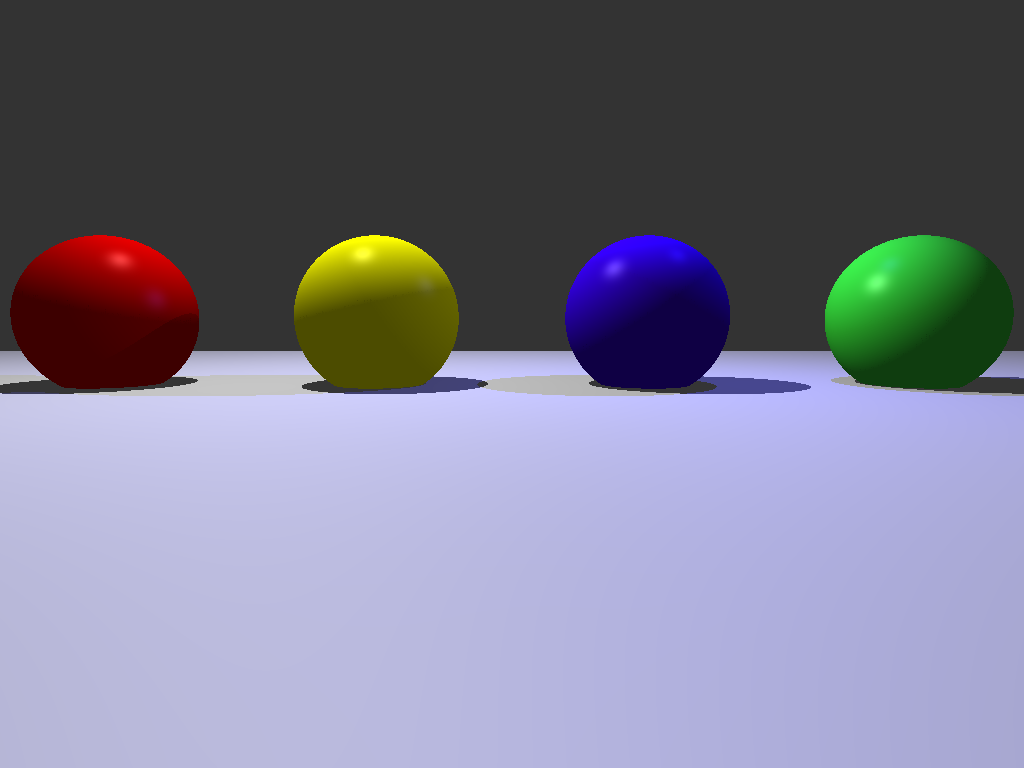
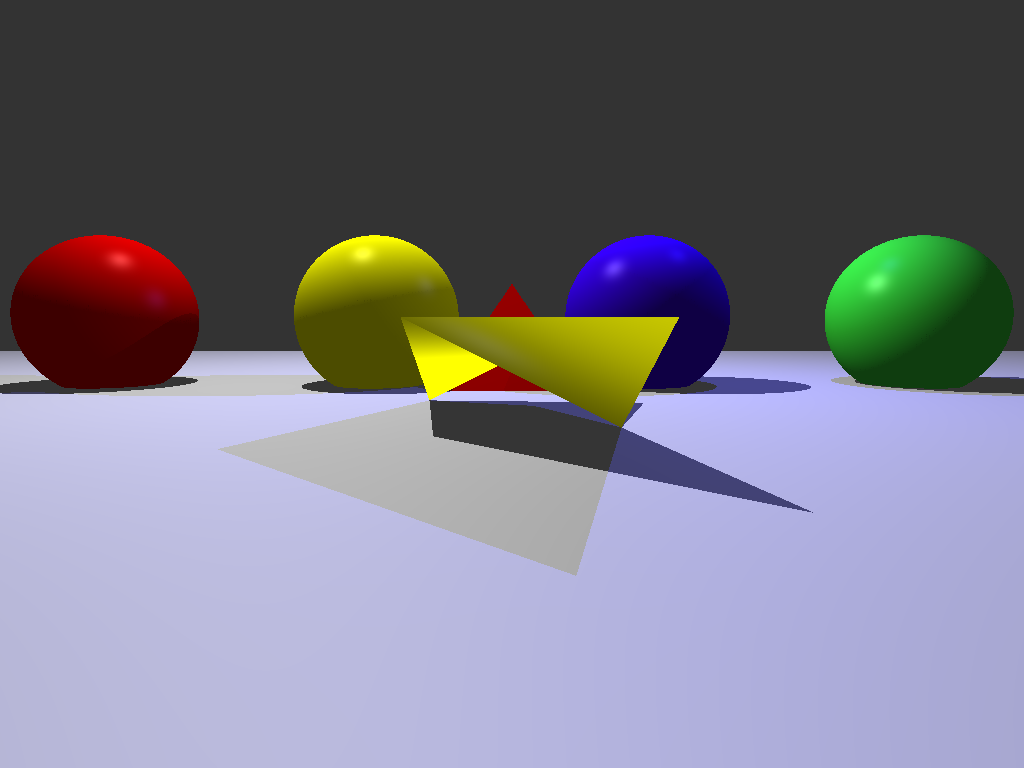
polymesh implementation
If has normals array -> smooth shading, otherwise flat shading. Moved triangle hit into polymesh.

Changed region(s): [[0.2188, 0.375, 0.7812, 0.75]]

diff --git a/src/shape/polymesh.rs b/src/shape/polymesh.rs
@@ -1,0 +1,105 @@
+use glam::{Mat3, Mat4, Vec3};
+use crate::{material::Material, ray::Ray, shape::{Hit, Shape}};
+
+pub struct PolyMesh {
+    vertices: Vec<Vec3>,            // the vertex table: one point per vertex
+    triangles: Vec<[u32; 3]>,       // the index table: three vertex indices per face
+    normals: Vec<Vec3>,             // optional: one per vertex (same length as vertices)
+    transform: Mat4,
+    material: Material
+}
+
+impl PolyMesh {
+     pub fn new(vertices: Vec<Vec3>, triangles: Vec<[u32; 3]>, normals: Vec<Vec3>, material: Material) -> PolyMesh {
+        PolyMesh {vertices, triangles, normals, transform: Mat4::IDENTITY, material}
+     }
+
+     // gets index of triangle (t) and returns 3 vertices of triangle
+     fn corners(&self, t: usize) -> [Vec3; 3] {
+        let [i, j, k] = self.triangles[t];
+        [self.vertices[i as usize], self.vertices[j as usize], self.vertices[k as usize]] 
+     }
+
+     fn hit_triangle(a: Vec3, b: Vec3, c: Vec3, ray: &Ray, t_min: f32, t_max: f32) -> Option<(f32, f32, f32, Vec3)> {
+        let d = ray.get_direction();
+        let e = ray.get_origin(); 
+
+        // hit point for triangle: p = (1 - beta - gamma)a + beta b + gamma c
+        // rearrange with ray equation (p = e + t*d): (a - b) beta + (a - c) gamma + d t = a - e
+        // c0 * beta + c1 * gamma + d * t = rhs
+        let (c0, c1) = (a - b, a - c); // the two columns
+        let rhs = a - e; // right-hand side
+
+        // determinant of | a-b   a-c   d |
+        let det = Mat3::from_cols(c0, c1, d).determinant();
+        if det.abs() < 1e-8 {return None;}  // ray parallel to the plane
+
+        let t = Mat3::from_cols(c0, c1, rhs).determinant() / det;
+        if t<t_min || t>t_max {
+            return None;    // too close or too far
+        }
+
+        let gamma = Mat3::from_cols(c0, rhs, d).determinant() / det;
+        if gamma<0.0 || gamma>1.0 {
+            return None;    // point not inside triangle (gamma not between 0, 1)
+        }
+
+        let beta = Mat3::from_cols(rhs, c1, d).determinant() / det;
+        if beta < 0.0 || beta > 1.0 - gamma {
+            return None;    // alpha = 1 - beta - gamma
+                            // For point inside triangle: beta >=0, gamme >= 0, beta + gamma <= 1
+        }
+
+        let face_normal = (b - a).cross(c - a).normalize();
+
+        Some((t, beta, gamma, face_normal))
+    }
+
+    // return shading normal from 
+    fn shading_normal(&self, tri: usize, beta: f32, gamma: f32, face_normal: Vec3) -> Vec3 {
+        // flat shading
+        if self.normals.is_empty() {
+            return face_normal;
+        }
+
+        let [i, j, k] = self.triangles[tri];
+        let alpha = 1.0 - beta - gamma;
+        let n = alpha * self.normals[i as usize]
+                + beta * self.normals[j as usize]
+                + gamma * self.normals[k as usize];
+        n.normalize()   // the blend is < 1 long
+    }
+
+
+
+
+}
+
+impl Shape for PolyMesh {
+    fn transform(&mut self, m: Mat4) {
+        self.transform = m * self.transform;
+    }
+
+    fn get_material(&self) -> Material {
+        self.material
+    }
+
+    fn hit(&self, ray: &Ray, t_min: f32, t_max: f32) -> Option<Hit> {
+        let d = ray.get_direction();
+        let e = ray.get_origin(); 
+        
+        let mut best: Option<Hit> = None;
+        let mut closest = t_max;
+
+        for i in 0..self.triangles.len() {
+            let vertices = self.corners(i);
+            let (a, b, c) = (vertices[0], vertices[1], vertices[2]);
+            if let Some((t, beta, gamma, n)) = Self::hit_triangle(a, b, c, ray, t_min, closest) {
+                closest = t;
+                let normal = self.shading_normal(i, beta, gamma, n);
+                best = Some(Hit {t , p: e + t * d, n: normal})
+            }
+        }
+        best
+    }
+}

diff --git a/src/main.rs b/src/main.rs
@@ -9,7 +9,7 @@ use glam::Vec3;
 use camera::Camera;
 use shape::sphere::Sphere;
 
-use crate::{material::{Light, Material}, shape::{Shape, plane::Plane}};
+use crate::{material::{Light, Material}, shape::{Shape, plane::Plane, polymesh::PolyMesh}};
 
 
 
@@ -41,7 +41,45 @@ fn main() {
     
 
     let plane = Plane::new(Vec3::new(0.0, 0.0, 0.0), Vec3::new(0.0, 1.0, 0.0), light_gray);
-    let shapes: Vec<Box<dyn Shape>> = vec![Box::new(sphere1), Box::new(sphere2), Box::new(sphere3), Box::new(sphere4), Box::new(plane)];
+
+    let pyramid_vertices = vec![
+        Vec3::new(-1.0, 0.0,  1.0), 
+        Vec3::new( 1.0, 0.0,  1.0), 
+        Vec3::new( 1.0, 0.0, -1.0), 
+        Vec3::new(-1.0, 0.0, -1.0),
+        Vec3::new( 0.0, 1.5,  0.0),
+    ];
+
+    let pyramid_triangles = vec![
+        [0, 3, 2], [0, 2, 1], // base
+        [0, 1, 4], [1, 2, 4], [2, 3, 4], [3, 0, 4], // sides
+    ];
+    let pyramid = PolyMesh::new(pyramid_vertices, pyramid_triangles, Vec::new(), red);
+
+    let smooth_vertices = vec![
+        Vec3::new(-1.0, 1.0, 4.0),
+        Vec3::new( 1.0, 0.0, 4.0),
+        Vec3::new( -1.0, 0.0, 2.0),
+        Vec3::new( 1.0, 1.0, 2.0),
+        Vec3::new( 1.0, 1.0, 6.0),
+    ];
+
+    let smooth_triangles = vec![
+        [0, 1, 3],
+        [0, 3, 2],
+        [0, 4, 1],
+    ];
+
+    let smooth_normals = vec![
+        Vec3::new(1.0, 1.0, 1.0).normalize(), // 0
+        Vec3::new(1.0, 1.0, 1.0).normalize(), // 1
+        Vec3::new(-1.0, 1.0, -1.0).normalize(), // 2
+        Vec3::new(1.0, 1.0, 1.0).normalize(), // 3
+        Vec3::new(1.0, 1.0, -1.0).normalize(), // 4
+    ];
+
+    let smooth_mesh = PolyMesh::new(smooth_vertices, smooth_triangles, smooth_normals, yellow);
+    let shapes: Vec<Box<dyn Shape>> = vec![Box::new(sphere1), Box::new(sphere2), Box::new(sphere3), Box::new(sphere4), Box::new(plane), Box::new(pyramid), Box::new(smooth_mesh)];
     
     // lights
     let white_light = Light::new(Vec3::new(-4.0, 10.0, 0.0), Vec3::new(0.8, 0.8, 0.8)); // white light

diff --git a/src/shape.rs b/src/shape.rs
@@ -1,6 +1,7 @@
 pub mod sphere;
 pub mod plane;
 pub mod triangle;
+pub mod polymesh;
 
 use glam::{Mat4, Vec3};
 use crate::{material::Material, ray::Ray};
@@ -21,7 +22,7 @@ pub trait Shape {
 pub struct Hit {
     pub t: f32,     // ray parameter at the hit
     pub p: Vec3,    // hit point = e + t * d
-    pub n: Vec3     // unit surface normal at p
+    pub n: Vec3,     // unit surface normal at p
 }
 
 impl Hit {
@@ -31,5 +32,9 @@ impl Hit {
 
     pub fn get_t(&self) -> f32 {
         return self.t;
+    }
+
+    pub fn get_n(&self) -> Vec3 {
+        return self.n;
     }
 }
